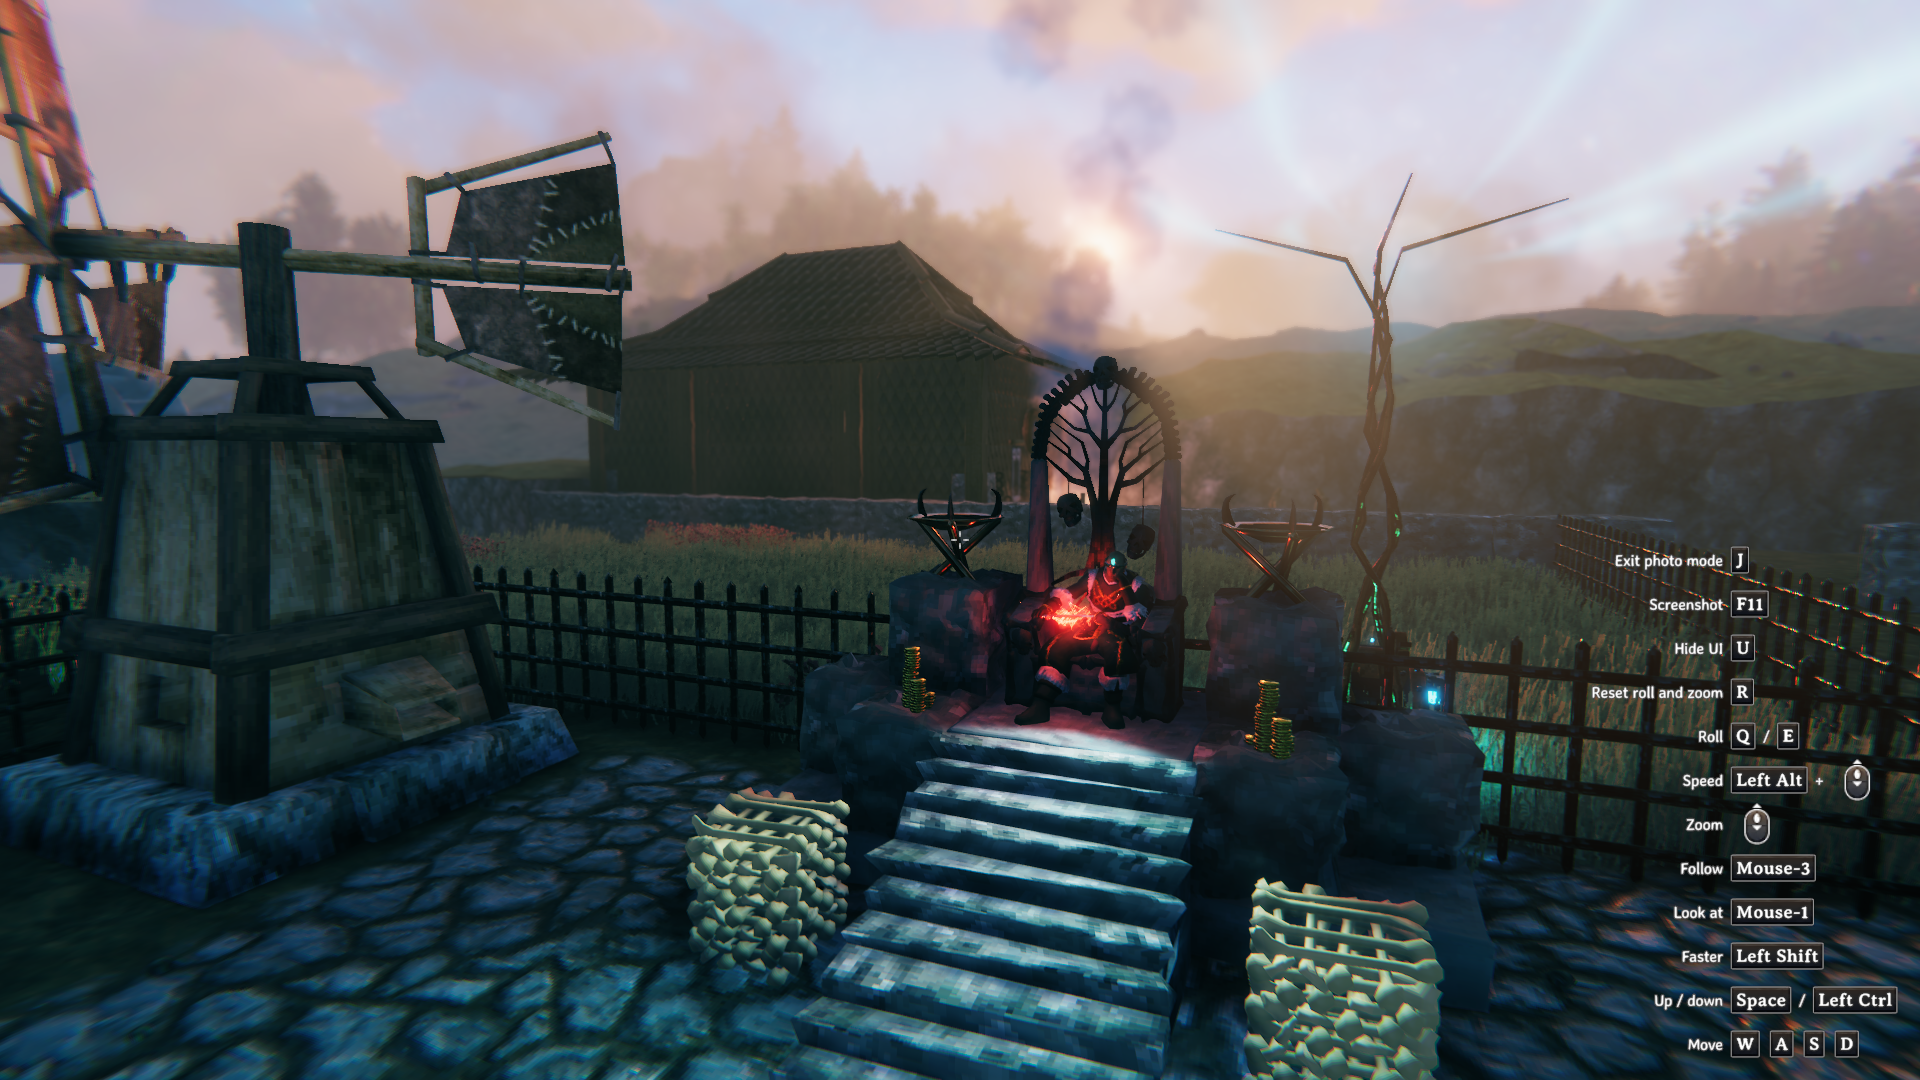
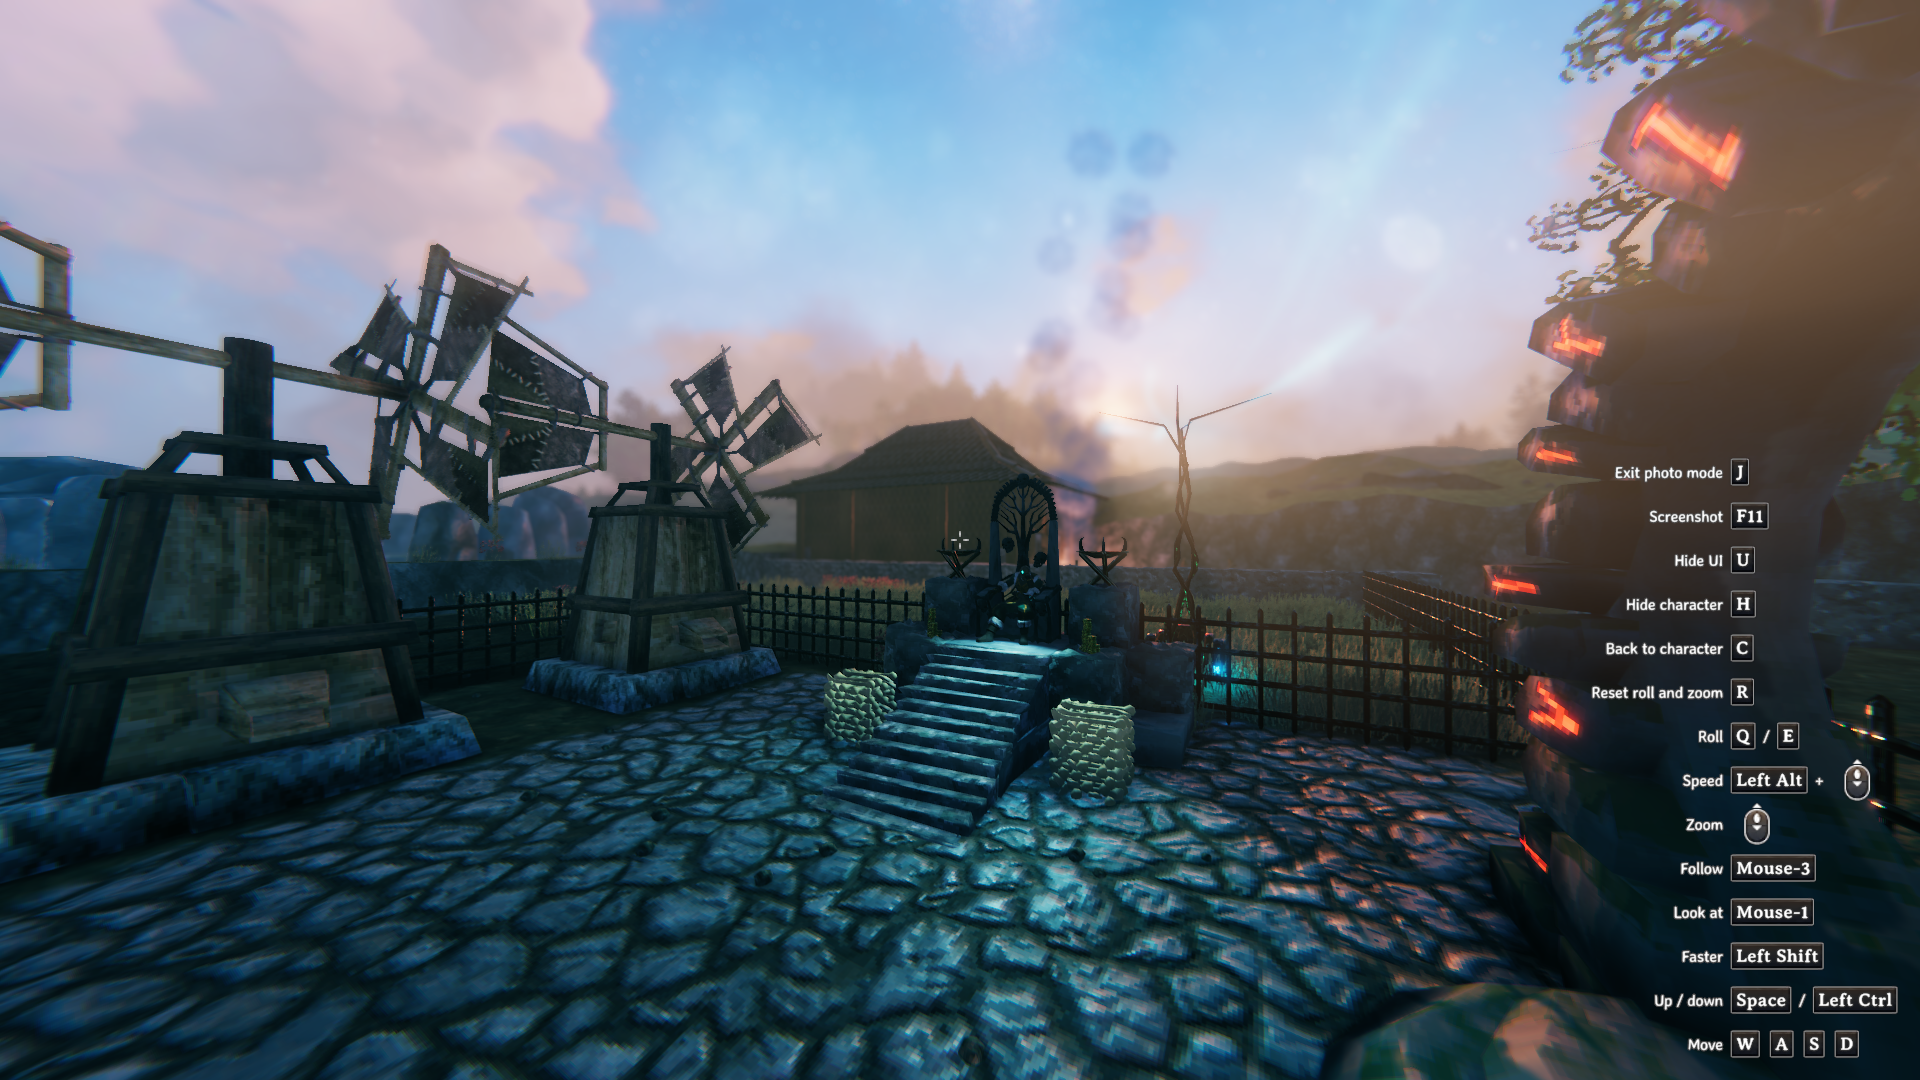
Photo mode: hide your character and return the camera to it (#10)
* Photo mode: hide your character and return the camera to it

* Update photo mode image asset

---------

diff --git a/Photo/PhotoMode.cs b/Photo/PhotoMode.cs
@@ -22,6 +22,7 @@ namespace BetterCamera.Photo;
 /// <item>The hotbar, map and health are always hidden (PhotoHud); the hide UI key hides the rest, through
 /// vanilla's own HUD hiding.</item>
 /// <item>The inventory still opens, so gear can be changed while posing.</item>
+/// <item>Your character can be hidden for scenery shots (PhotoCharacter), and the camera brought back to it.</item>
 /// <item>Screenshots are left to the player (vanilla F11 or their own tool).</item>
 /// </list>
 /// </summary>
@@ -46,6 +47,8 @@ internal static class PhotoMode
     private static ConfigEntry<KeyCode> _rollRightKey;
     private static ConfigEntry<KeyCode> _resetKey;
     private static ConfigEntry<KeyCode> _hideUiKey;
+    private static ConfigEntry<KeyCode> _hideCharacterKey;
+    private static ConfigEntry<KeyCode> _returnKey;
 
     private static bool _active;
     private static float _yaw;
@@ -103,6 +106,10 @@ internal static class PhotoMode
 
     public static KeyCode HideUiKey => _hideUiKey.Value;
 
+    public static KeyCode HideCharacterKey => _hideCharacterKey.Value;
+
+    public static KeyCode ReturnKey => _returnKey.Value;
+
     public static bool LookingAt => _lookAt != null;
 
     public static bool Following => _follow != null;
@@ -119,6 +126,10 @@ internal static class PhotoMode
         _hideUiKey = config.Bind("Keybinds", "Photo Mode Hide UI", KeyCode.U,
             "In photo mode, hides or shows what's left of the UI (key hints, status effects, crosshair and " +
             "messages). The hotbar, map and health are always hidden in photo mode.");
+        _hideCharacterKey = config.Bind("Keybinds", "Photo Mode Hide Character", KeyCode.H,
+            "In photo mode, hides or shows your character, for shots of the scenery.");
+        _returnKey = config.Bind("Keybinds", "Photo Mode Return", KeyCode.C,
+            "In photo mode, brings the camera back to just behind your character, looking at them.");
 
         const string section = "Photo Mode";
         _maxDistance = config.Bind(section, "Max Distance", 100f,
@@ -166,6 +177,14 @@ internal static class PhotoMode
             else if (ZInput.GetKeyDown(_hideUiKey.Value) && Hud.instance != null)
             {
                 Hud.instance.m_userHidden = !Hud.instance.m_userHidden;
+            }
+            else if (ZInput.GetKeyDown(_hideCharacterKey.Value))
+            {
+                PhotoCharacter.Toggle();
+            }
+            else if (ZInput.GetKeyDown(_returnKey.Value))
+            {
+                ReturnToCharacter(player);
             }
         }
         else if (ZInput.GetButtonDown(ButtonQueryName))
@@ -231,6 +250,7 @@ internal static class PhotoMode
         }
 
         PhotoHud.Restore();
+        PhotoCharacter.Reset();
         if (Hud.instance != null)
         {
             Hud.instance.m_userHidden = _hudWasHidden;
@@ -289,6 +309,7 @@ internal static class PhotoMode
         }
 
         PhotoHud.Hide();
+        PhotoCharacter.Apply(Player.m_localPlayer);
 
         // Moving goes where the camera faces (also while it looks at something), without the roll.
         Quaternion look = Quaternion.Euler(0f, _yaw, 0f) * Quaternion.Euler(_pitch, 0f, 0f);
@@ -508,6 +529,39 @@ internal static class PhotoMode
             _followOffset = camera.position - _follow.position;
         }
     }
+
+    /// <summary>
+    /// Puts the camera just behind and above your character, looking at their head, for when it's been flown
+    /// out of sight of them. Stops looking at or following anything.
+    /// </summary>
+    private static void ReturnToCharacter(Player player)
+    {
+        GameCamera camera = GameCamera.instance;
+        if (camera == null || player.m_eye == null)
+        {
+            return;
+        }
+
+        Vector3 head = player.m_eye.position;
+        Vector3 back = Vector3.ProjectOnPlane(player.transform.forward, Vector3.up).normalized;
+        Vector3 position = head - (back * ReturnDistance) + (Vector3.up * ReturnHeight);
+        Vector3 towards = head - position;
+
+        _lookAt = null;
+        _follow = null;
+        _velocity = Vector3.zero;
+        _acceleration = Vector3.zero;
+        _yaw = Quaternion.LookRotation(towards).eulerAngles.y;
+        _pitch = Mathf.Clamp(-Mathf.Atan2(towards.y, new Vector2(towards.x, towards.z).magnitude) * Mathf.Rad2Deg, -MaxPitch, MaxPitch);
+        camera.transform.SetPositionAndRotation(position, Quaternion.Euler(_pitch, _yaw, _roll));
+    }
+
+    /// <summary>
+    /// Where the return key puts the camera: metres behind the character's head, and above it.
+    /// </summary>
+    private const float ReturnDistance = 3f;
+
+    private const float ReturnHeight = 0.5f;
 
     private static Vector3 KeepNearPlayer(Vector3 position)
     {

diff --git a/Photo/PhotoKeyHints.cs b/Photo/PhotoKeyHints.cs
@@ -28,6 +28,8 @@ internal static class PhotoKeyHints
     private const string RollRightKey = "@rollright";
     private const string ResetKey = "@reset";
     private const string HideUiKey = "@hideui";
+    private const string HideCharacterKey = "@hidecharacter";
+    private const string ReturnKey = "@return";
 
     private const float LabelFontSize = 16f;
     private const float IconHeight = 32f;
@@ -57,6 +59,12 @@ internal static class PhotoKeyHints
         new Hint { Keys = [ToggleKey], Label = () => "$bettercamera_photo_hint_exit" },
         new Hint { Keys = ["F11"], Label = () => "$bettercamera_photo_hint_screenshot" },
         new Hint { Keys = [HideUiKey], Label = () => "$bettercamera_photo_hint_hud" },
+        new Hint
+        {
+            Keys = [HideCharacterKey],
+            Label = () => PhotoCharacter.IsHidden ? "$bettercamera_photo_hint_show_character" : "$bettercamera_photo_hint_hide_character",
+        },
+        new Hint { Keys = [ReturnKey], Label = () => "$bettercamera_photo_hint_return" },
         new Hint { Keys = [ResetKey], Label = () => "$bettercamera_photo_hint_reset" },
         new Hint { Keys = [RollLeftKey, RollRightKey], Separator = "/", Label = () => "$bettercamera_photo_hint_roll" },
         new Hint { Keys = ["Left Alt", ScrollIcon], Label = () => "$bettercamera_photo_hint_speed" },
@@ -84,6 +92,7 @@ internal static class PhotoKeyHints
     private static readonly string[] AllLabels =
     [
         "$bettercamera_photo_hint_exit", "$bettercamera_photo_hint_screenshot", "$bettercamera_photo_hint_hud",
+        "$bettercamera_photo_hint_hide_character", "$bettercamera_photo_hint_show_character", "$bettercamera_photo_hint_return",
         "$bettercamera_photo_hint_reset", "$bettercamera_photo_hint_roll", "$bettercamera_photo_hint_speed",
         "$bettercamera_photo_hint_zoom", "$bettercamera_photo_hint_follow", "$bettercamera_photo_hint_unfollow",
         "$bettercamera_photo_hint_look", "$bettercamera_photo_hint_unlook", "$bettercamera_photo_hint_fast",
@@ -252,6 +261,8 @@ internal static class PhotoKeyHints
             RollRightKey => PhotoMode.RollRightKey.ToString(),
             ResetKey => PhotoMode.ResetKey.ToString(),
             HideUiKey => PhotoMode.HideUiKey.ToString(),
+            HideCharacterKey => PhotoMode.HideCharacterKey.ToString(),
+            ReturnKey => PhotoMode.ReturnKey.ToString(),
             _ => Localization.instance.Localize(key),
         };
     }

diff --git a/Photo/PhotoCharacter.cs b/Photo/PhotoCharacter.cs
@@ -1,0 +1,71 @@
+using System.Collections.Generic;
+
+using UnityEngine;
+
+namespace BetterCamera.Photo;
+
+/// <summary>
+/// Hides your own character in photo mode, for shots of the scenery: every renderer on it (body, gear, and
+/// effects such as a torch's flame) is turned off. Gear can change while it's hidden, so new renderers are picked
+/// up every frame. Everything is put back as it was when it's shown again or photo mode ends.
+/// </summary>
+internal static class PhotoCharacter
+{
+    private static readonly Dictionary<Renderer, bool> Hidden = [];
+    private static readonly List<Renderer> Renderers = [];
+
+    public static bool IsHidden { get; private set; }
+
+    public static void Toggle()
+    {
+        IsHidden = !IsHidden;
+        if (!IsHidden)
+        {
+            Restore();
+        }
+    }
+
+    /// <summary>
+    /// Called every frame in photo mode.
+    /// </summary>
+    public static void Apply(Player player)
+    {
+        if (!IsHidden || player == null || player.m_visual == null)
+        {
+            return;
+        }
+
+        player.m_visual.GetComponentsInChildren(includeInactive: true, Renderers);
+        foreach (Renderer renderer in Renderers)
+        {
+            if (!Hidden.ContainsKey(renderer))
+            {
+                Hidden[renderer] = renderer.enabled;
+            }
+
+            renderer.enabled = false;
+        }
+    }
+
+    /// <summary>
+    /// Shows the character again and forgets the setting, so the next photo mode starts with it shown.
+    /// </summary>
+    public static void Reset()
+    {
+        IsHidden = false;
+        Restore();
+    }
+
+    private static void Restore()
+    {
+        foreach (KeyValuePair<Renderer, bool> entry in Hidden)
+        {
+            if (entry.Key != null)
+            {
+                entry.Key.enabled = entry.Value;
+            }
+        }
+
+        Hidden.Clear();
+    }
+}

diff --git a/README.md b/README.md
@@ -54,6 +54,8 @@ Press `J` to fly a free camera around your character (up to 100 m away) and line
 | `Middle-Click` | Move along with what's under the crosshair, such as a ship or a creature. |
 | `Tab`          | Open the inventory to change your gear.                    |
 | `U`            | Hide or show the rest of the UI.                           |
+| `H`            | Hide or show your character, for shots of the scenery.     |
+| `C`            | Bring the camera back to just behind your character.       |
 | `F11`          | Take a screenshot (vanilla, saved in Valheim's `screenshots` folder). |
 | `J`            | Leave photo mode.                                          |
 

diff --git a/CHANGELOG.md b/CHANGELOG.md
@@ -1,5 +1,9 @@
 # Changelog
 
+## Unreleased
+
+- In photo mode, press `H` to hide your character for shots of the scenery, and `C` to bring the camera back to just behind them.
+
 ## 0.4.0
 
 - Press `L` to switch between first and third person without zooming all the way in or out.
